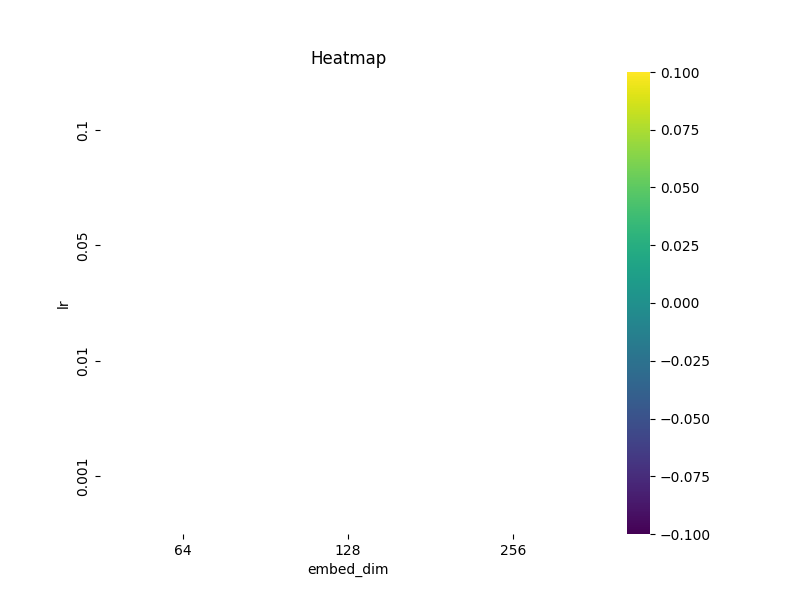
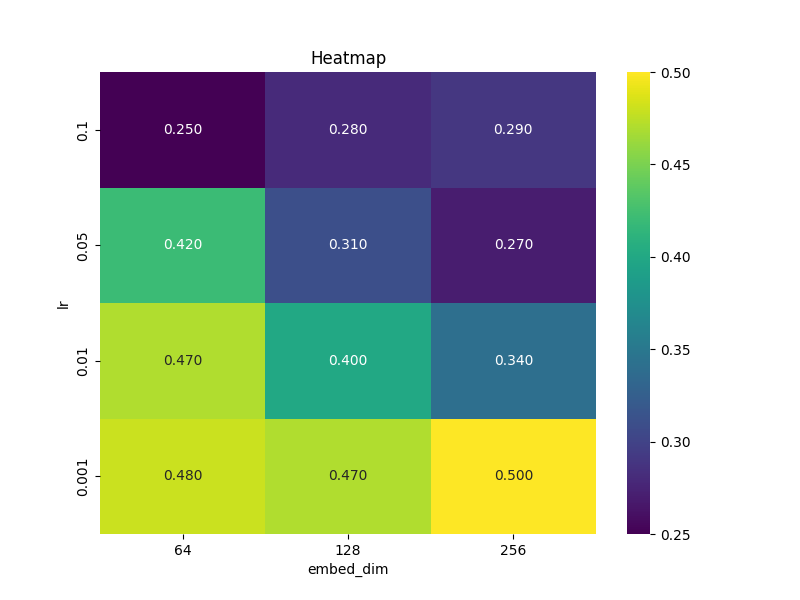
fixed the pooling layer and did one hyper parameter tuning

diff --git a/src/models.py b/src/models.py
@@ -64,9 +64,9 @@ class CNNTextClassifier(nn.Module):
                 for k in kernel_sizes
             ]
         )
-        self.pool = nn.MaxPool1d(kernel_size=3, stride=2)
+        self.pool = nn.AvgPool1d(kernel_size=3, stride=1)
         self.rep_dropout = nn.Dropout(dropout)
-        self.res = nn.Linear(num_filters * len(kernel_sizes), num_classes)
+        self.res = nn.Linear((num_filters * len(kernel_sizes) - 2), num_classes)
         self.fc = nn.Softmax(0)
 
     def forward(self, x: torch.Tensor, lengths: torch.Tensor) -> torch.Tensor:

diff --git a/main.py b/main.py
@@ -83,7 +83,7 @@ print("CNN: ", count_parameters(cnn))
 # Hyperparameter tuning
 do_hyperparameter_evaluation(
     CNNTextClassifier,
-    {"lr": [0.1, 0.05, 0.01, 0.001]},
+    {"lr": [0.01, 0.001, 0.0001, 0.00001]},
     {"embed_dim": [64, 128, 256]},
     vocab_size=vocab_size,
     train_loader=train_loader,
